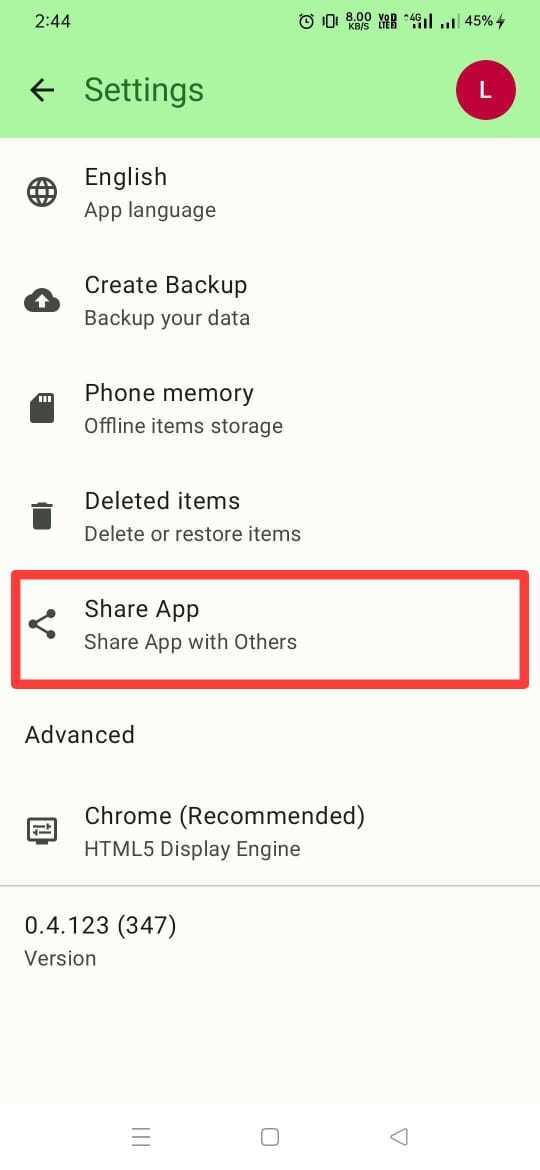
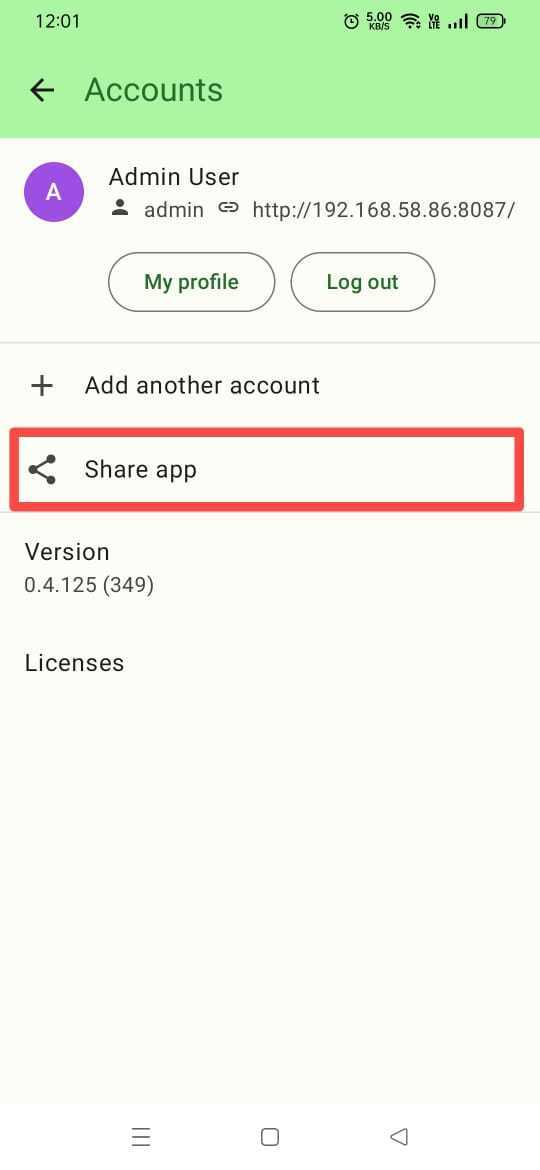
updated manual documentation.

diff --git a/docs/source/installation.rst b/docs/source/installation.rst
@@ -58,7 +58,7 @@ To install using QuickShare:
 6. Once the transfer is complete, tap on the received APK to install.
 
 .. image:: images/sharing1.jpg
-   :alt: The screenshot shows the app's Settings screen with options for language, backup, phone memory, deleted items, sharing the app, advanced settings, recommended Chrome, and version.
+   :alt: The screenshot shows the app's Account screen with options for user detail, sharing the app, advanced settings, recommended Chrome, and version.
    :width: 400px
    :height: 700px
 
